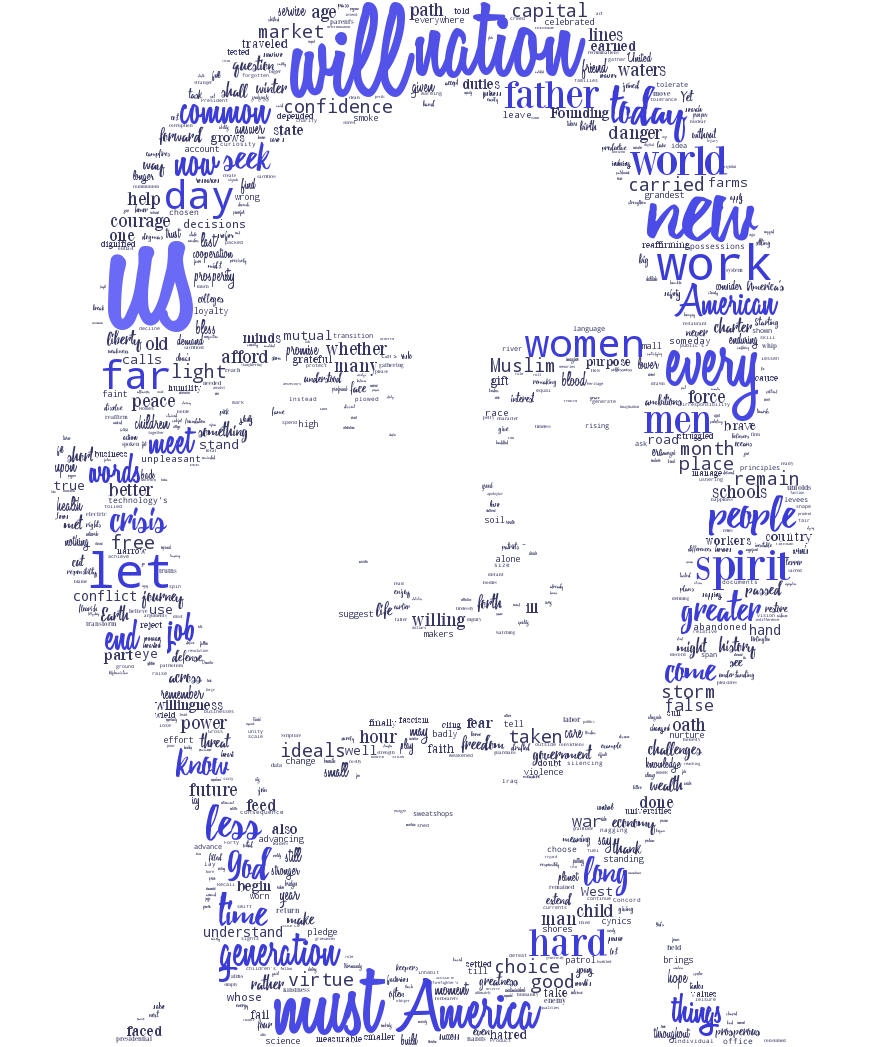
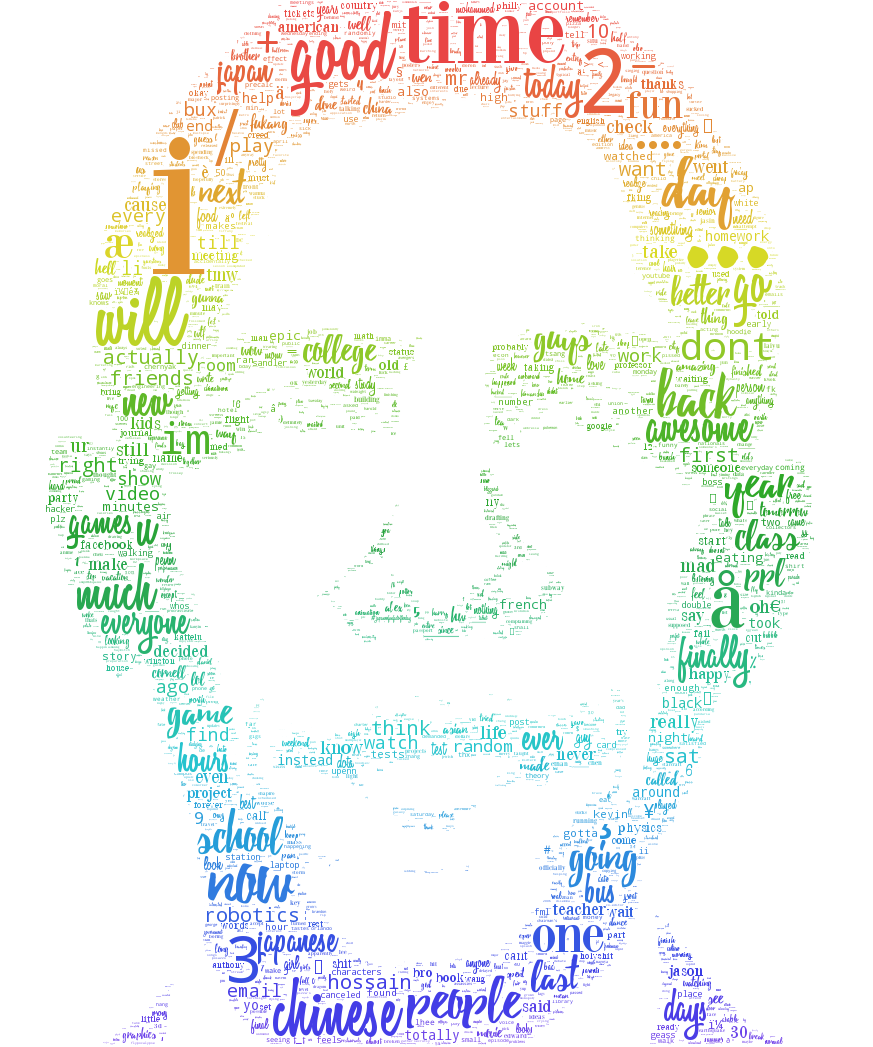
got data from local MySQL server and visualized frequency

diff --git a/WordPortrait/masked_test.py b/WordPortrait/masked_test.py
@@ -8,27 +8,62 @@ Using a mask you can generate wordclouds in arbitrary shapes.
 from os import path
 from PIL import Image
 import numpy as np
+import MySQLdb
+import gc
+from operator import itemgetter
 
 from wordportrait import *
 
 d = path.dirname(__file__)
+STOPWORDS = set([x.strip() for x in open(os.path.join(d, 'stopwords')).read().split('\n')])
+
 
 # Read the whole text.
-text = open(path.join(d, 'obama_speech.txt')).read()
+#text = open(path.join(d, 'obama_speech.txt')).read()
+
+# get the input
+db = MySQLdb.connect(host="localhost", port=3306, user="root", passwd="localroot", db="test")
+cursor = db.cursor()
+cursor.execute("SELECT * FROM ethan_status")
+
+# filter table into array of tuples 
+results = cursor.fetchall()
+words = []
+# filter out stopwords
+stopwords_lower = set(map(str.lower, STOPWORDS))
+for row in results:
+	word = row[2]
+	freq = row[3]
+	if word.lower() in stopwords_lower:
+		continue
+
+	tup = (word,freq)
+	words.append(tup)
+
+words.sort(key=itemgetter(1), reverse=True)
+
+i = 0
+for row in words:
+	i = i + 1
+	print row
+	if i > 50:
+		break
 
 
 # read the mask image
-# taken from
-# http://www.stencilry.org/stencils/movies/alice%20in%20wonderland/255fk.jpg
 obama_mask = np.array(Image.open(path.join(d, "obama_threshold.jpg")))
 
 wc = WordCloud(background_color="white", max_words=3000, mask=obama_mask, prefer_horizontal=1,
 	min_font_size = 1,)
 # generate word cloud
-wc.generate(text)
+wc.generate_from_frequencies(words)
 
 # store to file
 wc.to_file(path.join(d, "obama_cloud.png"))
 
 image = wc.to_image()
 image.show()
+
+# close database link
+db.close()
+gc.collect()

diff --git a/WordPortrait/wordportrait.py b/WordPortrait/wordportrait.py
@@ -102,22 +102,22 @@ def gradient_color_func(word=None, font_size=None, position=None,
         If a random object is given, this is used for generating random numbers.
 
     """
-    # --- font size ---
-    hue = 240
-    sat = 30
-    lit = 30
-    if font_size > 25 : 
-        sat += font_size * 30 / 200 + 30
-        lit += font_size * 20 / 200 + 20
+    # --- single color based on font frequency ---
+    #hue = 240
+    #sat = 30
+    #lit = 30
+    #if font_size > 25 : 
+    #    sat += font_size * 30 / 200 + 30
+    #    lit += font_size * 20 / 200 + 20
 
 
     #sat = 30 + (font_size * 30 / 200)
     #lit = 30 + (font_size * 40 / 200)
 
     # --- vertical ---
-    #hue = position[0] * 260 / height
-    #sat = abs(position[0] - (height / 2)) * 20 / (height / 2) + 60 
-    #lit = abs(position[0] - (height / 2)) * 20 / (height / 2) + 40 
+    hue = position[0] * 260 / height
+    sat = abs(position[0] - (height / 2)) * 20 / (height / 2) + 60 
+    lit = abs(position[0] - (height / 2)) * 20 / (height / 2) + 40 
 
     # --- horizontal ---
     #hue = position[1] * 260 / width 

diff --git a/WordPortrait/test.py b/WordPortrait/test.py
@@ -1,0 +1,27 @@
+import MySQLdb
+import gc
+
+db = MySQLdb.connect(host="localhost", port=3306, user="root", passwd="localroot", db="test")
+cursor = db.cursor()
+
+#cursor.execute("SELECT feat FROM ethan.feat$1gram$statuses_ethan$user_id$16to16;", feat)
+cursor.execute("SELECT * FROM ethan_status")
+
+results = cursor.fetchall()
+i = 0
+
+for row in results:
+  p_id = row[0]
+  word = row[2]
+  frequency = row[3]
+  # Now print fetched result
+  print "id = %s, word = %s, frequency = %d" % \
+         (p_id, word, frequency)
+  i = i + 1
+  if i > 4:
+  	break
+
+
+
+db.close()
+gc.collect()
